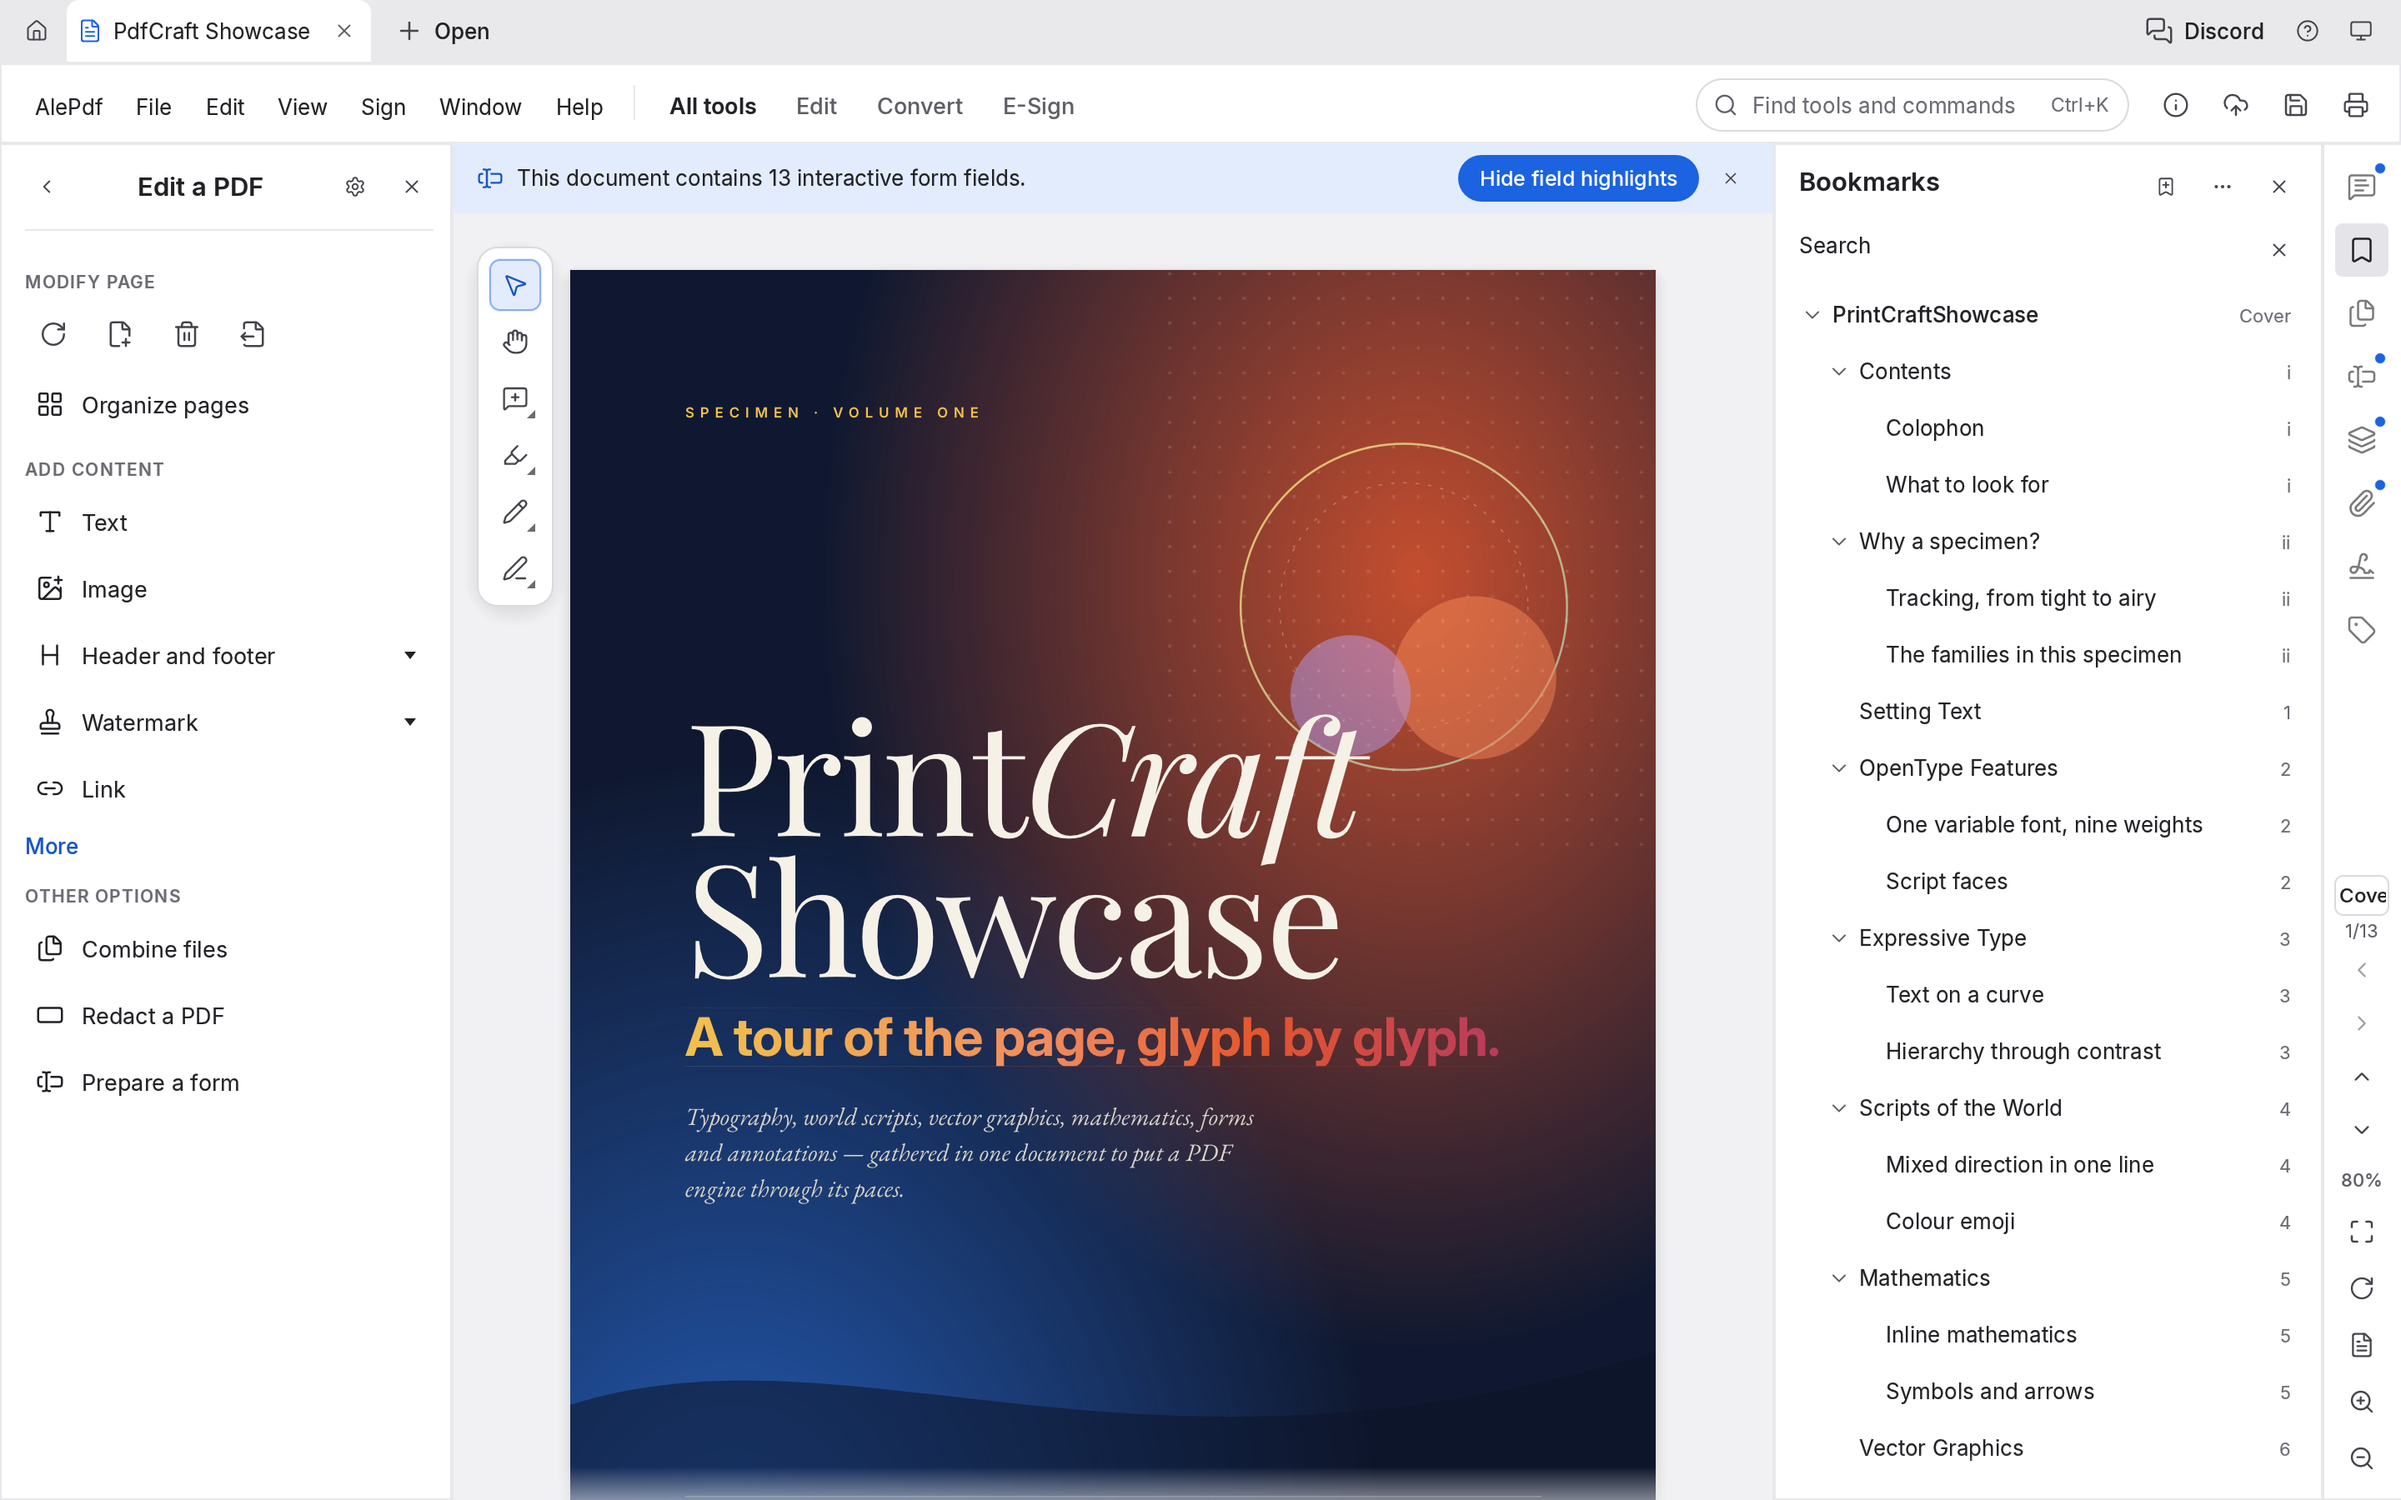
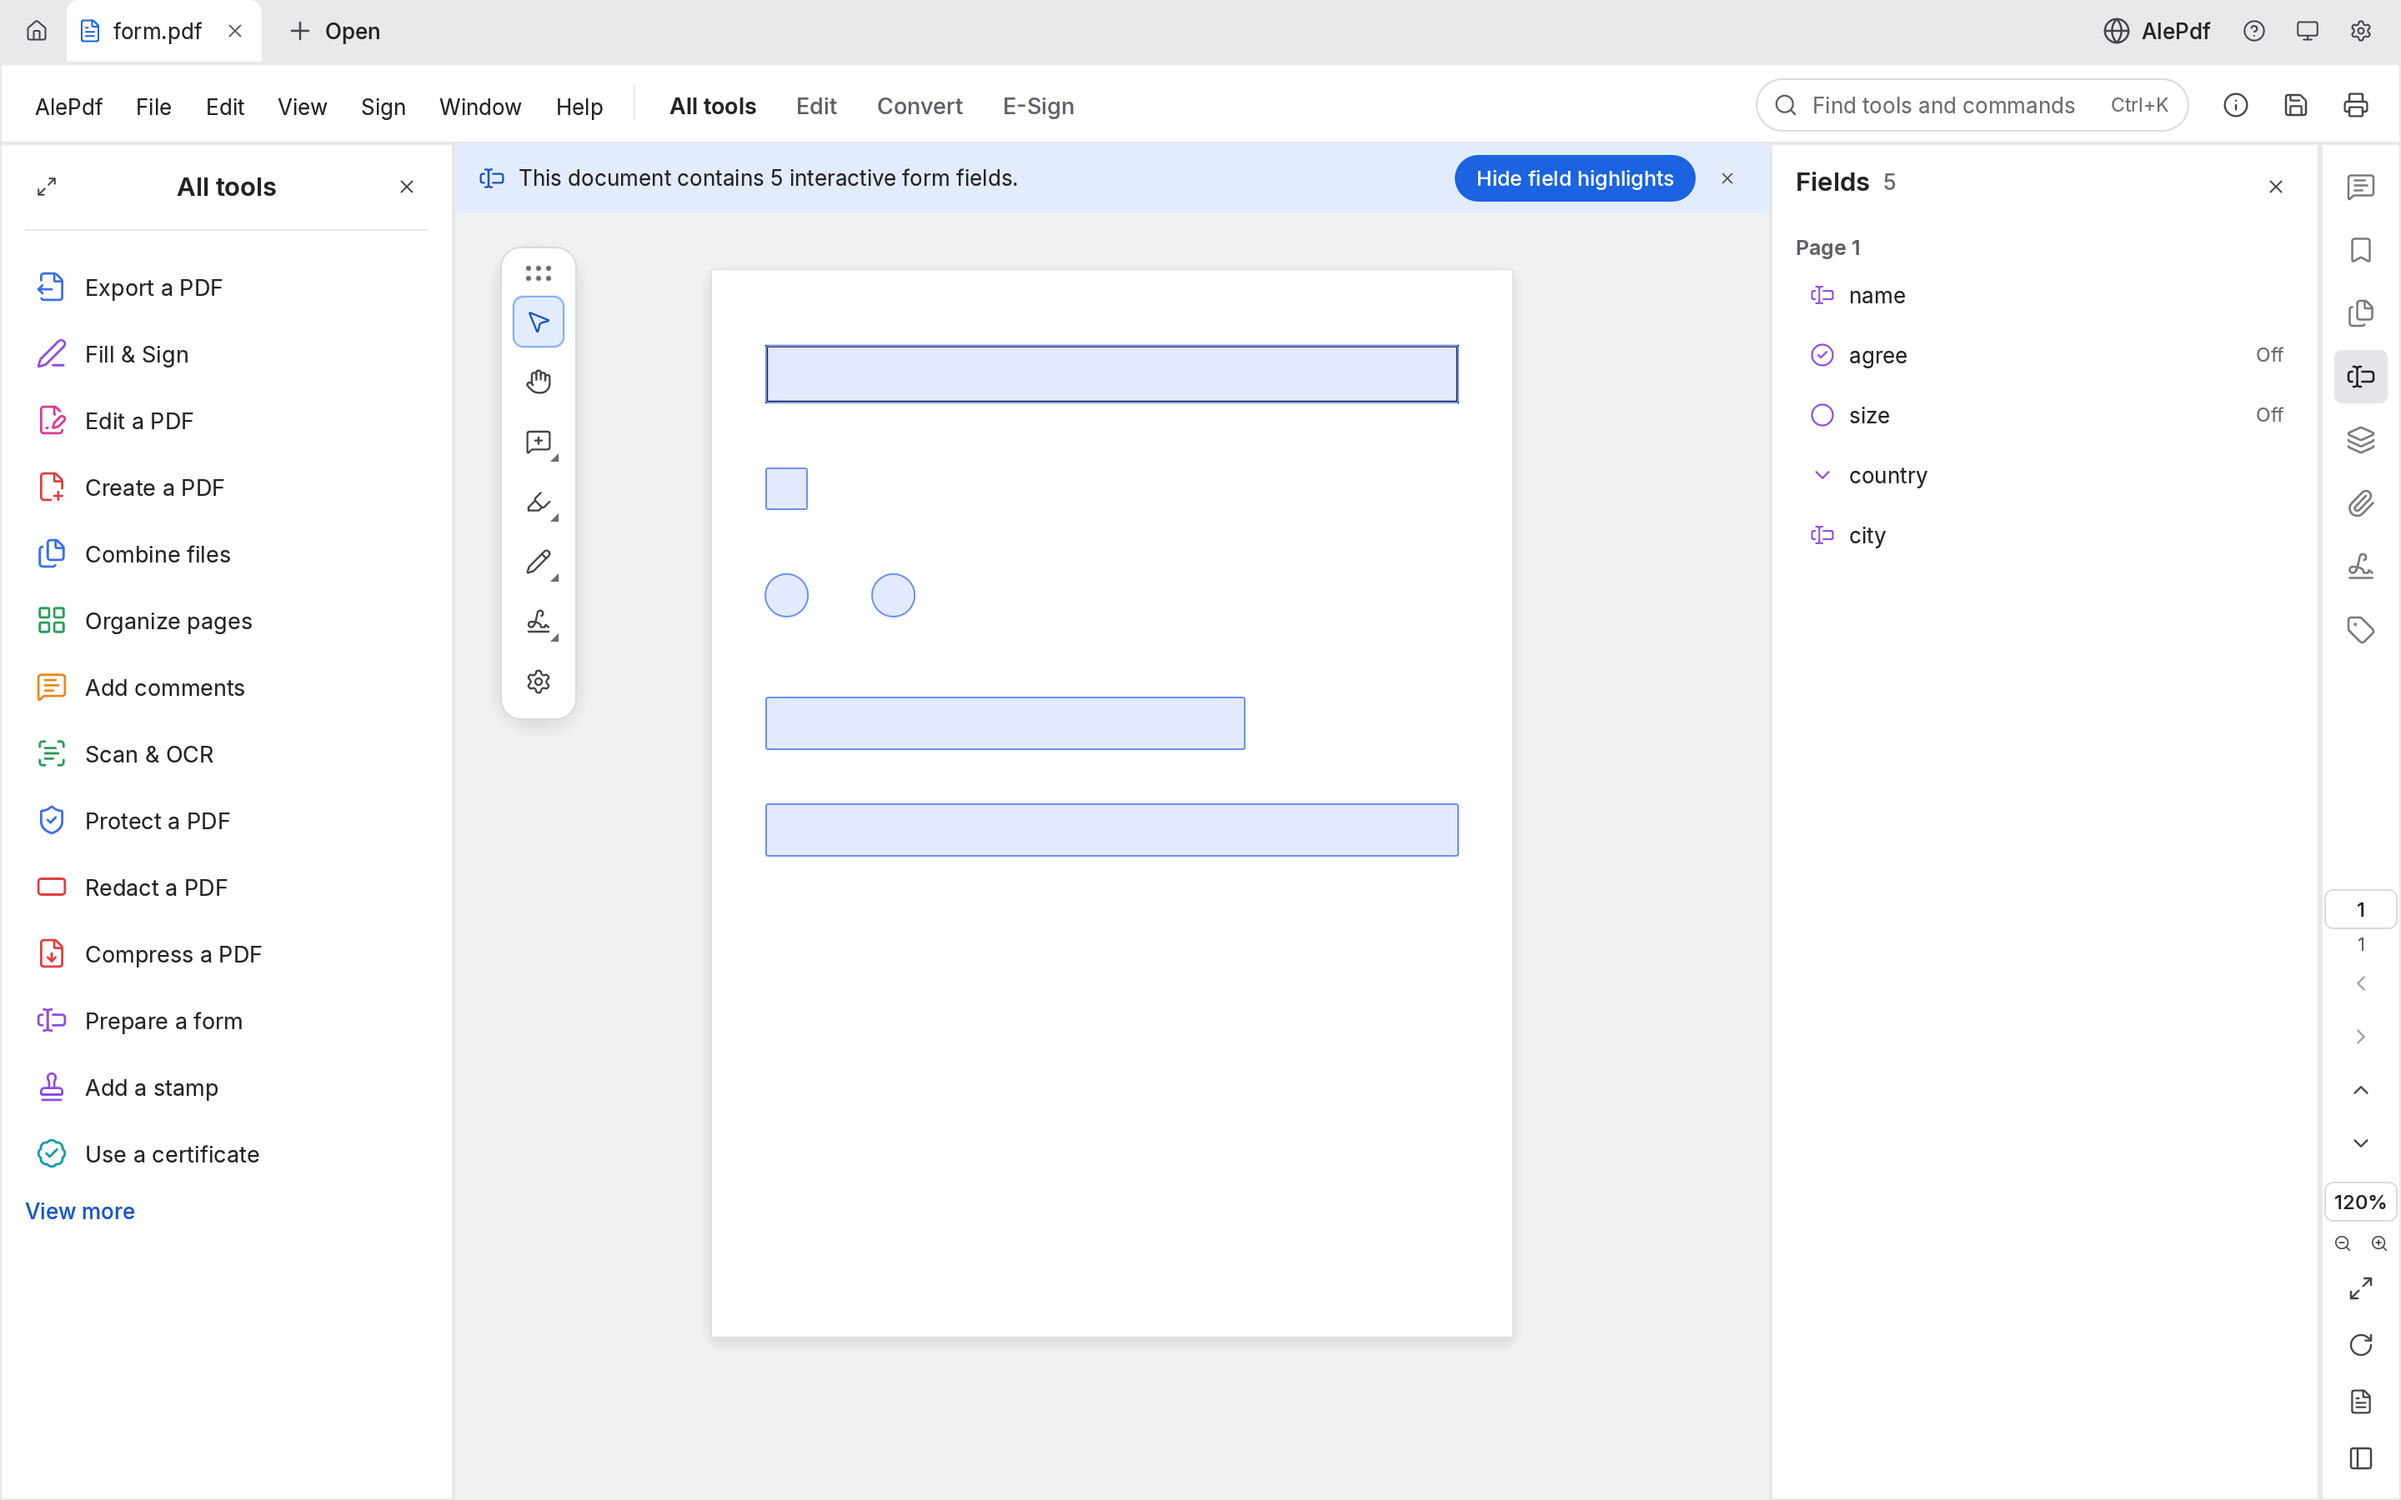
Update README figure with authentic AlePdf screenshot and refresh editor screenshot

diff --git a/README.md b/README.md
@@ -1,5 +1,5 @@
 <p align="center">
-  <img src="assets/screenshots/alepdf-welcome.png" width="96" height="96" style="border-radius: 20px;" alt="AlePdf Icon">
+  <img src="assets/app-icon/pdfcraft-1024.png" width="128" height="128" alt="AlePdf Icon">
 </p>
 
 <h1 align="center">AlePdf</h1>
@@ -27,9 +27,9 @@
 <br>
 
 <p align="center">
-  <img src="assets/screenshots/alepdf-editor.png" alt="AlePdf in action: PDF editor and workspace" width="100%">
+  <img src="assets/screenshots/alepdf-welcome.png" alt="AlePdf Welcome & Tools Hub" width="100%">
   <br>
-  <sub>AlePdf native workspace: in-place PDF editing, threaded comments, and full document tools.</sub>
+  <sub>AlePdf Welcome &amp; Tools Hub: modern native workbench with tools for in-place editing, page organizing, forms, and security.</sub>
 </p>
 
 ---
